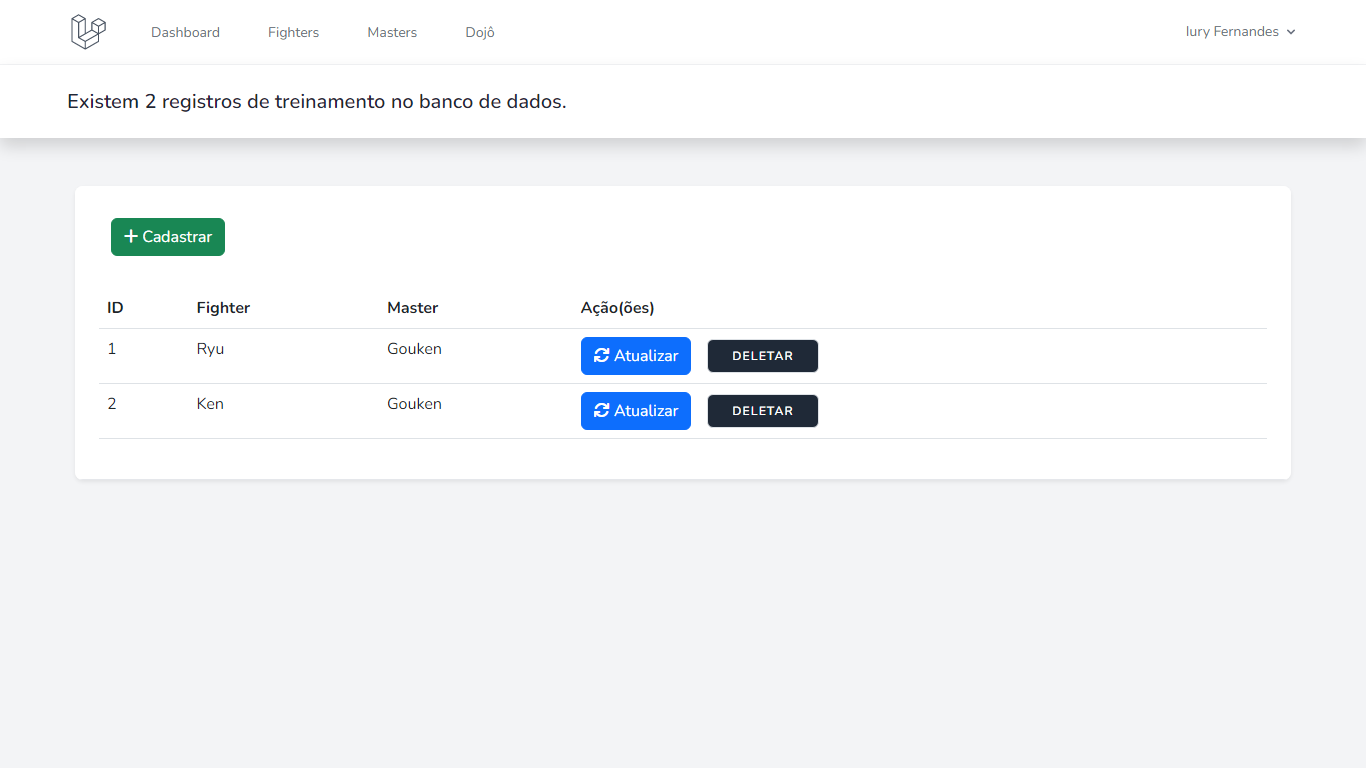
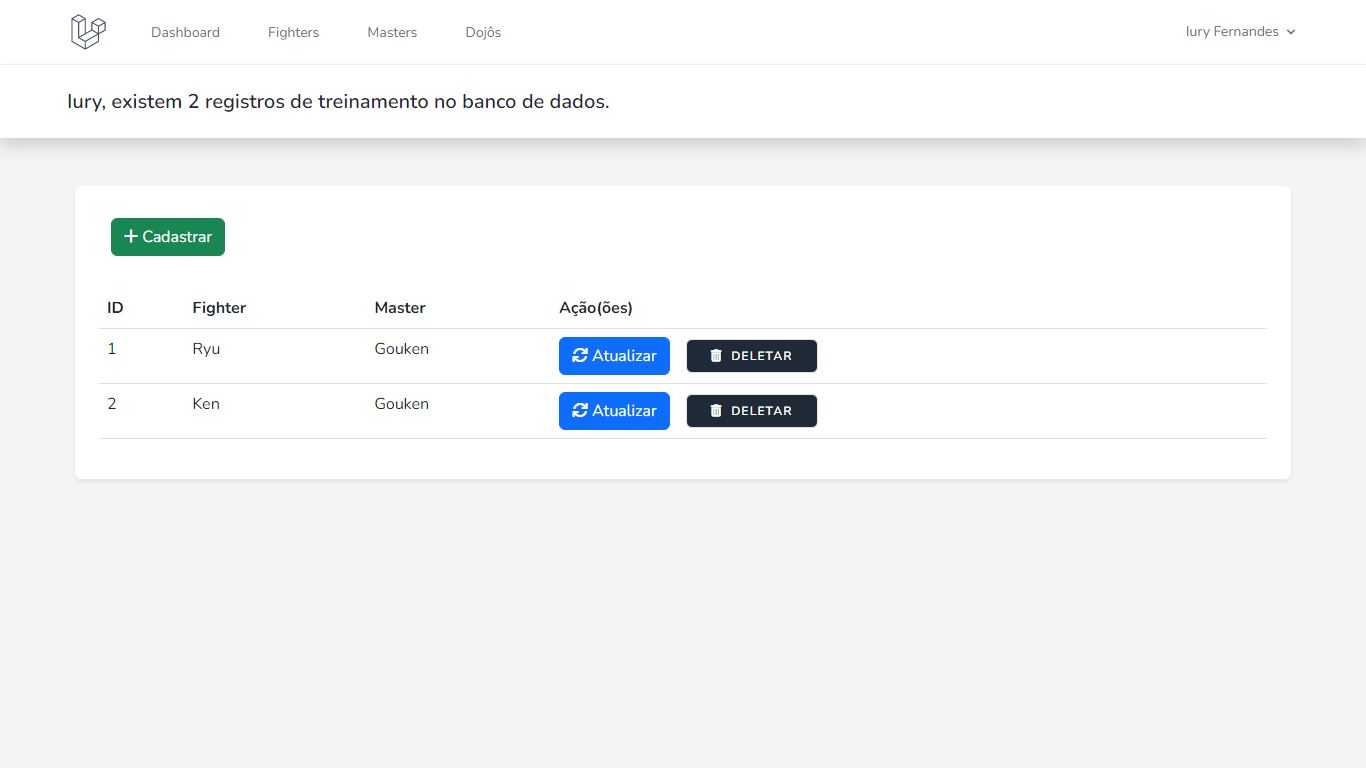
Adding User of type Admin

diff --git a/resources/views/admin/admin.blade.php b/resources/views/admin/admin.blade.php
@@ -1,0 +1,41 @@
+@section('title') {{'Listar usuários'}} @endsection
+
+<x-app-layout>
+  <x-slot name="header">
+      {{-- <h2 class="font-semibold text-xl text-gray-800 leading-tight">
+        
+      </h2> --}}
+  </x-slot>
+  <div class="py-12">   
+      <div class="max-w-7xl mx-auto sm:px-6 lg:px-8">
+          <div class="bg-white overflow-hidden shadow-sm sm:rounded-lg">
+              <div class="p-6 bg-white border-b border-gray-200">
+                <nav class="navbar navbar-default">
+                </nav>
+                <br>
+                  <table class="table table-hover">
+                      <thead>
+                        <tr>
+                          <th title="ID"> ID </th>
+                          <th title="Nome"> Nome </th>
+                          <th title="Master"> E-mail </th>
+                          <th title="Nível de acesso"> Nível de acesso </th>
+                        </tr>
+                      </thead>
+                      <tbody>
+                        @foreach ($user as $u)
+                          <tr>
+                            <td title="{{ $u->id }}"> {{ $u->id }} </td>
+                            <td title="{{ $u->name }}"> {{ $u->name }} </td>
+                            <td title="{{ $u->email }}"> {{ $u->email }} </td>
+                            <td title="{{ $u->role == 0 ? "User" : "Administrator" }}"> {{ $u->role == 0 ? "User" : "Administrator" }} </td>
+                          </tr>   
+                        @endforeach
+                      </tbody>
+                    </table>
+                  {{ $user->links() }}
+              </div>
+          </div>
+      </div>
+  </div>
+</x-app-layout>

diff --git a/routes/web.php b/routes/web.php
@@ -1,6 +1,7 @@
 <?php
 
 use Illuminate\Support\Facades\Route;
+use App\Http\Controllers\AdminController;
 use App\Http\Controllers\FighterController;
 use App\Http\Controllers\MasterController;
 use App\Http\Controllers\DojoController;
@@ -49,6 +50,10 @@ Route::controller(DojoController::class)->group(function() {
     Route::get('/update-dojo/{id}', 'edit');
     Route::patch('/update-dojo/{id}', 'update');
     Route::delete('/delete-dojo/{id}', 'destroy');
+});
+
+Route::controller(AdminController::class)->group(function(){
+    Route::get('/admin', 'viewAdmin');
 });
 
 require __DIR__.'/auth.php';

diff --git a/database/seeders/UserSeed.php b/database/seeders/UserSeed.php
@@ -1,0 +1,25 @@
+<?php
+
+namespace Database\Seeders;
+
+use App\Models\User;
+use Illuminate\Database\Seeder;
+use Illuminate\Database\Console\Seeds\WithoutModelEvents;
+
+class UserSeed extends Seeder
+{
+    /**
+     * Run the database seeds.
+     *
+     * @return void
+     */
+    public function run()
+    {
+        User::factory()->create([
+            'name' => 'Mario Brother',
+            'email' => 'mario@world.com',
+            'role' => 1,
+            'password' => bcrypt('$12345678;'),
+        ]);
+    }
+}

diff --git a/resources/views/layouts/navigation.blade.php b/resources/views/layouts/navigation.blade.php
@@ -31,6 +31,13 @@
                         {{ __('Dojôs') }}
                     </x-nav-link>
                 </div>
+                <div class="hidden space-x-8 sm:-my-px sm:ml-10 sm:flex">
+                    @can('onlyAdmin')
+                        <x-nav-link :href="url('admin')" :active="request()->routeIs('admin')">
+                            {{ __('Admin') }}
+                        </x-nav-link>
+                    @endcan
+                </div>
             </div>
 
             <!-- Settings Dropdown -->

diff --git a/app/Providers/AuthServiceProvider.php b/app/Providers/AuthServiceProvider.php
@@ -3,6 +3,8 @@
 namespace App\Providers;
 
 // use Illuminate\Support\Facades\Gate;
+use App\Models\User;
+use Illuminate\Support\Facades\Gate;
 use Illuminate\Foundation\Support\Providers\AuthServiceProvider as ServiceProvider;
 
 class AuthServiceProvider extends ServiceProvider
@@ -25,6 +27,8 @@ class AuthServiceProvider extends ServiceProvider
     {
         $this->registerPolicies();
 
-        //
+        Gate::define('onlyAdmin',function(User $user) {
+            return $user->role == 1;
+        });
     }
 }

diff --git a/app/Http/Controllers/AdminController.php b/app/Http/Controllers/AdminController.php
@@ -1,0 +1,21 @@
+<?php
+
+namespace App\Http\Controllers;
+
+use App\Models\User;
+use Illuminate\Support\Facades\Gate;
+
+class AdminController extends Controller
+{
+    public function __construct()
+    {
+        $this->middleware('auth')->only(['viewAdmin','can:manage_users']);
+    }
+
+    public function viewAdmin()
+    {
+        $user = User::paginate(5);
+        Gate::authorize('onlyAdmin', $user);
+        return view('admin.admin', compact('user'));
+    }
+}

diff --git a/resources/views/dashboard.blade.php b/resources/views/dashboard.blade.php
@@ -3,7 +3,11 @@
 <x-app-layout>
     <x-slot name="header">
         <h2 class="font-semibold text-xl text-gray-800 leading-tight">
-            {{ __('Hello, ')}} {{ Auth::user()->name }}.
+            @if (Auth::user()->role == 0)
+                {{ __('Hello, ')}} {{ Auth::user()->name }} (User).
+            @else
+                {{ __('Hello, ')}} {{ Auth::user()->name }} (Administrador).
+            @endif
         </h2>
     </x-slot>
     <div class="py-12">   

diff --git a/database/seeders/DatabaseSeeder.php b/database/seeders/DatabaseSeeder.php
@@ -3,6 +3,7 @@
 namespace Database\Seeders;
 
 // use Illuminate\Database\Console\Seeds\WithoutModelEvents;
+use Database\Seeders\UserSeed;
 use Illuminate\Database\Seeder;
 
 class DatabaseSeeder extends Seeder
@@ -20,5 +21,8 @@ class DatabaseSeeder extends Seeder
         //     'name' => 'Test User',
         //     'email' => 'test@example.com',
         // ]);
+        $this->call([
+            UserSeed::class,
+        ]);
     }
 }

diff --git a/resources/views/dojo/update.blade.php b/resources/views/dojo/update.blade.php
@@ -1,9 +1,9 @@
-@section('title') {{"Atualizar Dojô Nº $dojo->id"}} @endsection
+@section('title') {{"Atualizar dojô Nº $dojo->id"}} @endsection
 
 <x-app-layout>
     <x-slot name="header">
         <h2 class="font-semibold text-xl text-gray-800 leading-tight">
-            {{ __("Atualizar Dojô Nº $dojo->id") }}
+            {{ __("Atualizar dojô Nº $dojo->id") }}
         </h2>
     </x-slot>
     <div class="py-12">   

diff --git a/resources/views/fighter/create.blade.php b/resources/views/fighter/create.blade.php
@@ -1,9 +1,9 @@
-@section('title') {{'Cadastrar Fighter'}} @endsection
+@section('title') {{'Cadastrar fighter'}} @endsection
 
 <x-app-layout>
     <x-slot name="header">
         <h2 class="font-semibold text-xl text-gray-800 leading-tight">
-            {{ __('Cadastrar Fighter') }}
+            {{ __('Cadastrar fighter') }}
         </h2>
     </x-slot>
     <div class="py-12">   

diff --git a/resources/views/master/create.blade.php b/resources/views/master/create.blade.php
@@ -1,9 +1,9 @@
-@section('title') {{'Cadastrar Master'}} @endsection
+@section('title') {{'Cadastrar master'}} @endsection
 
 <x-app-layout>
     <x-slot name="header">
         <h2 class="font-semibold text-xl text-gray-800 leading-tight">
-            {{ __('Cadastrar Master') }}
+            {{ __('Cadastrar master') }}
         </h2>
     </x-slot>
     <div class="py-12">   

diff --git a/resources/views/dojo/create.blade.php b/resources/views/dojo/create.blade.php
@@ -1,9 +1,9 @@
-@section('title') {{'Cadastrar Dojô'}} @endsection
+@section('title') {{'Cadastrar dojô'}} @endsection
 
 <x-app-layout>
     <x-slot name="header">
         <h2 class="font-semibold text-xl text-gray-800 leading-tight">
-            {{ __('Cadastrar Dojô') }}
+            {{ __('Cadastrar dojô') }}
         </h2>
     </x-slot>
     <div class="py-12">   
